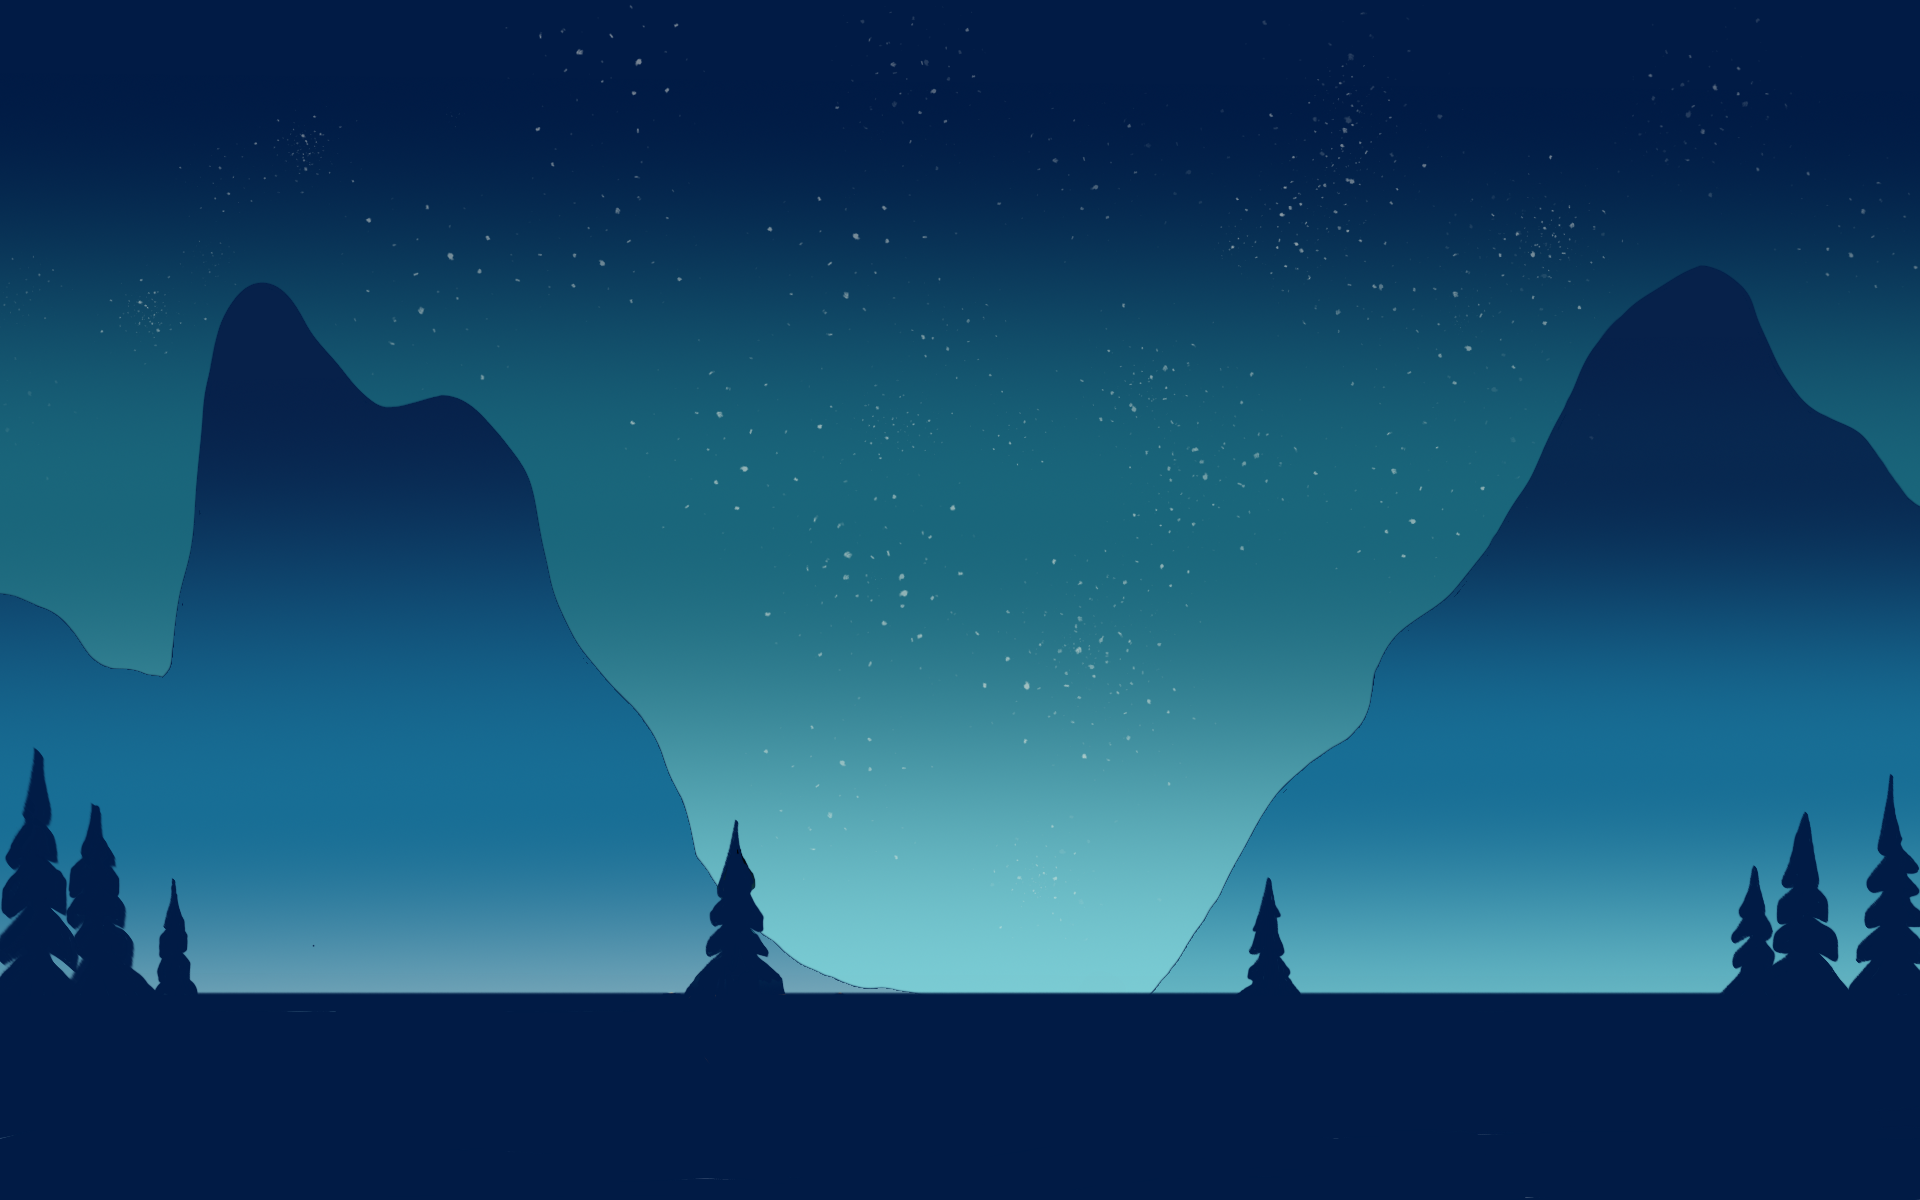
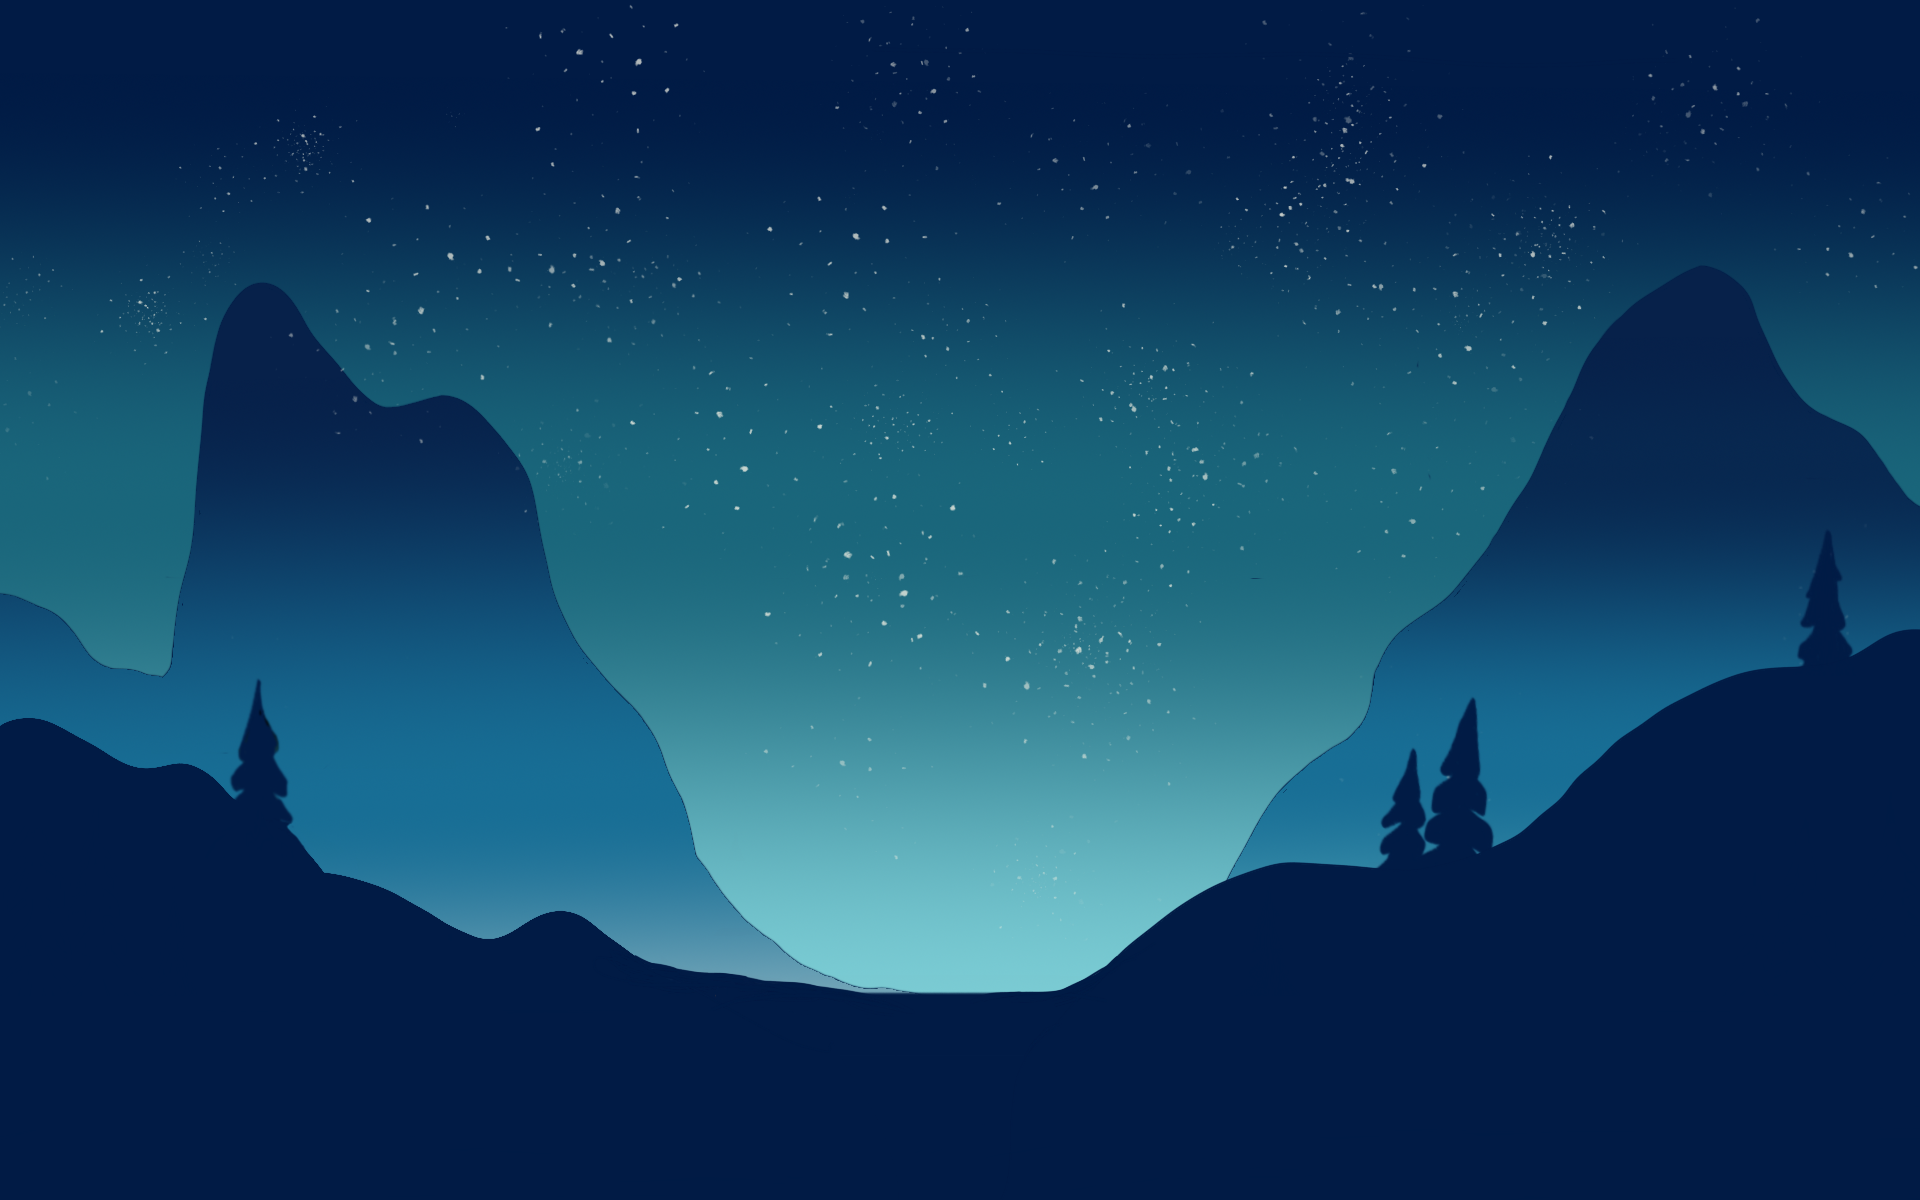
Adjusted Background and Alignment of Add Chapter Screen, modified Background2

Changed region(s): [[0.5312, 0.4625, 1.0, 0.8325], [0.0, 0.5858, 0.4375, 0.8325]]

diff --git a/src/components/screens/course/ScreenAddChapter.tsx b/src/components/screens/course/ScreenAddChapter.tsx
@@ -148,7 +148,7 @@ export const ScreenAddChapter: React.FC = () => {
                     borderColor: dark.theme.darkBlue4,
                     borderWidth: 2,
                     borderRadius: 5,
-                    maxWidth: 470,
+                    maxWidth: 870,
                 }}>
                 <TouchableOpacity onPress={() => removeContent(item)}>
                     <MaterialIcons name="remove" size={28} color="white" style={styles.icon} />
@@ -455,27 +455,28 @@ export const ScreenAddChapter: React.FC = () => {
 
     return (
         <View style={styles.container}>
-            <ImageBackground source={require("../../../constants/images/Background2.png")} style={styles.image}>
-                <View style={[styles.headContainer]}>
-                    <View style={styles.borderContainer}>
-                        {/*<TextInput label="name" value={courseName} onChangeText={(text) => setCourseName(text)} />*/}
-                        <TextInput
-                            style={styles.courseHeader}
-                            value={chapterName}
-                            onChangeText={(text) => setChapterName(text)}
-                        />
-                        <MaterialCommunityIcons name="pen" size={24} color={dark.theme.darkGreen} style={styles.icon} />
-                    </View>
-                    <View style={{ flexDirection: "row" }}>
-                        <TextButton title={i18n.t("itrex.saveAndReturn")} onPress={() => saveChapter(true)} />
-                        <TextButton title={i18n.t("itrex.save")} onPress={() => saveChapter(false)} />
-                    </View>
+            <View style={[styles.headContainer]}>
+                <View style={styles.borderContainer}>
+                    {/*<TextInput label="name" value={courseName} onChangeText={(text) => setCourseName(text)} />*/}
+                    <TextInput
+                        style={styles.courseHeader}
+                        value={chapterName}
+                        onChangeText={(text) => setChapterName(text)}
+                    />
+                    <MaterialCommunityIcons name="pen" size={24} color={dark.theme.darkGreen} style={styles.icon} />
                 </View>
+                <View style={styles.buttonContainer}>
+                    <TextButton title={i18n.t("itrex.saveAndReturn")} onPress={() => saveChapter(true)} />
+                    <TextButton title={i18n.t("itrex.save")} onPress={() => saveChapter(false)} />
+                </View>
+            </View>
 
-                <View style={styles.headContainer}></View>
-
-                <View style={styles.contentContainer}>
-                    <View style={styles.sequenceArea}>
+            <View style={styles.contentContainer}>
+                <View style={styles.sequenceArea}>
+                    <ImageBackground
+                        source={require("../../../constants/images/Background1-4.png")}
+                        style={styles.image}
+                        imageStyle={{ opacity: 0.3, position: "absolute", resizeMode: "cover" }}>
                         <View style={styles.containerTop}>
                             <Text style={{ marginBottom: 10, fontSize: 20, color: "white" }}>
                                 {i18n.t("itrex.chapterContentList")}
@@ -489,15 +490,15 @@ export const ScreenAddChapter: React.FC = () => {
                                 onDragEnd={({ to, from }) => reorderContent(to, from)}
                             />
                         </View>
-                    </View>
-                    <View style={styles.contentContainerAdd}>
-                        <View style={styles.containerTop}>{renderUi()}</View>
-                    </View>
-                    <View style={styles.contentContainerAdd}>
-                        <View style={styles.containerTop}>{renderQuizList()}</View>
-                    </View>
+                    </ImageBackground>
                 </View>
-            </ImageBackground>
+                <View style={[styles.contentContainerAdd, { marginRight: "3%" }]}>
+                    <View style={styles.containerTop}>{renderUi()}</View>
+                </View>
+                <View style={styles.contentContainerAdd}>
+                    <View style={styles.containerTop}>{renderQuizList()}</View>
+                </View>
+            </View>
         </View>
     );
 
@@ -664,43 +665,60 @@ const styles = StyleSheet.create({
     },
     headContainer: {
         flexDirection: "row",
-        alignItems: "flex-start",
-        paddingTop: "3%",
-        paddingLeft: "3%",
+        //alignItems: "flex-start",
+        padding: "3%",
+        paddingLeft: "4%",
     },
     borderContainer: {
-        flex: 3,
+        flex: 1,
         flexDirection: "row",
-        borderBottomColor: "rgba(70,74,91,0.5)",
-        borderBottomWidth: 3,
+        alignItems: "flex-end",
+        //justifyContent: "flex-start",
+        borderColor: dark.theme.grey,
+        borderBottomWidth: 1.5,
+        //padding: "0.5%",
+        //alignContent: "center"
     },
+
+    buttonContainer: {
+        flexDirection: "row",
+        paddingLeft: "1%",
+    },
+
     contentContainer: {
         flex: 2,
         flexDirection: "row",
-        padding: "2%",
+        paddingLeft: "2%",
+        paddingRight: "2%",
+        paddingBottom: "1%",
+        paddingTop: "1%",
     },
     contentContainerAdd: {
         flex: 1,
-        backgroundColor: "rgba(1,43,86,0.5)",
+        padding: 5,
+        paddingTop: "1%",
+        //backgroundColor: "rgba(1,43,86,0.5)",
         borderWidth: 3,
         borderColor: dark.theme.darkBlue3,
-        marginRight: "3%",
         alignItems: "center",
         maxWidth: 280,
     },
     sequenceArea: {
         flex: 1,
-        backgroundColor: "rgba(1,43,86,0.5)",
+        //backgroundColor: "rgba(1,43,86,0.5)",
         borderWidth: 3,
         borderColor: dark.theme.darkBlue3,
         marginRight: "3%",
-        alignItems: "center",
+        //padding: 5,
+        paddingTop: "1%",
+        alignItems: "stretch",
     },
     courseHeader: {
+        //alignSelf:"flex-end",
         color: "white",
         fontSize: 24,
         fontWeight: "bold",
-        width: "100%",
+        flex: 1,
     },
     image: {
         flex: 1,
@@ -708,7 +726,7 @@ const styles = StyleSheet.create({
     },
     icon: {
         position: "relative",
-        alignItems: "flex-start",
+        //alignItems: "flex-start",
     },
     containerCentered: {
         flex: 1,
